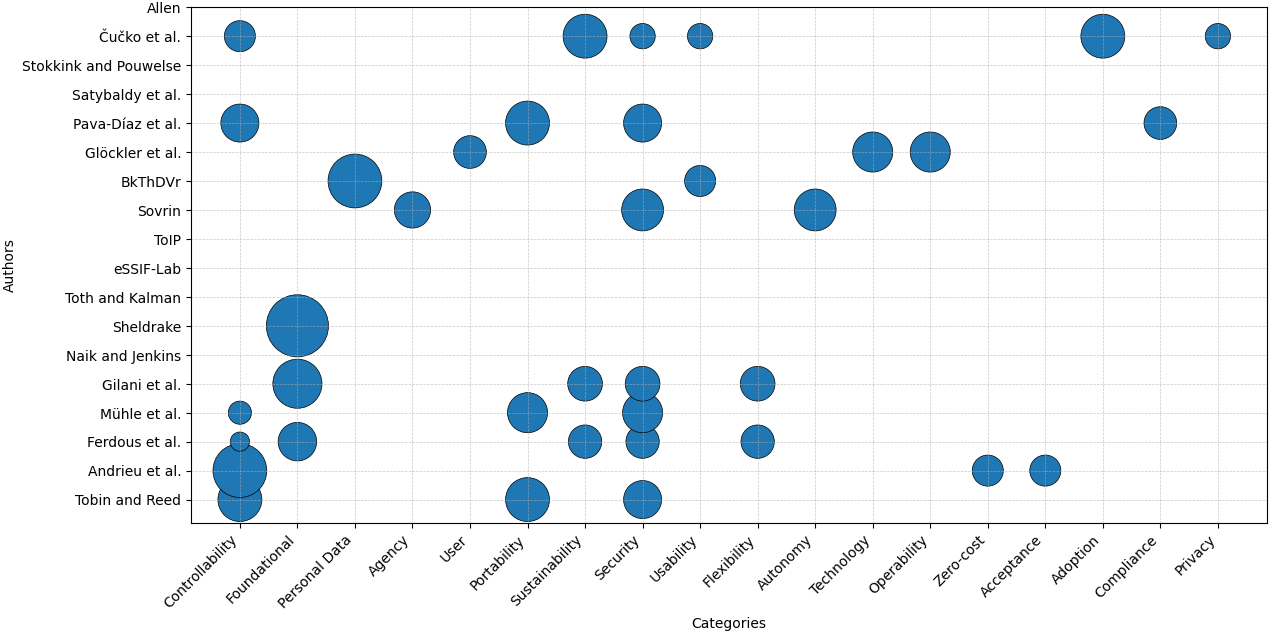
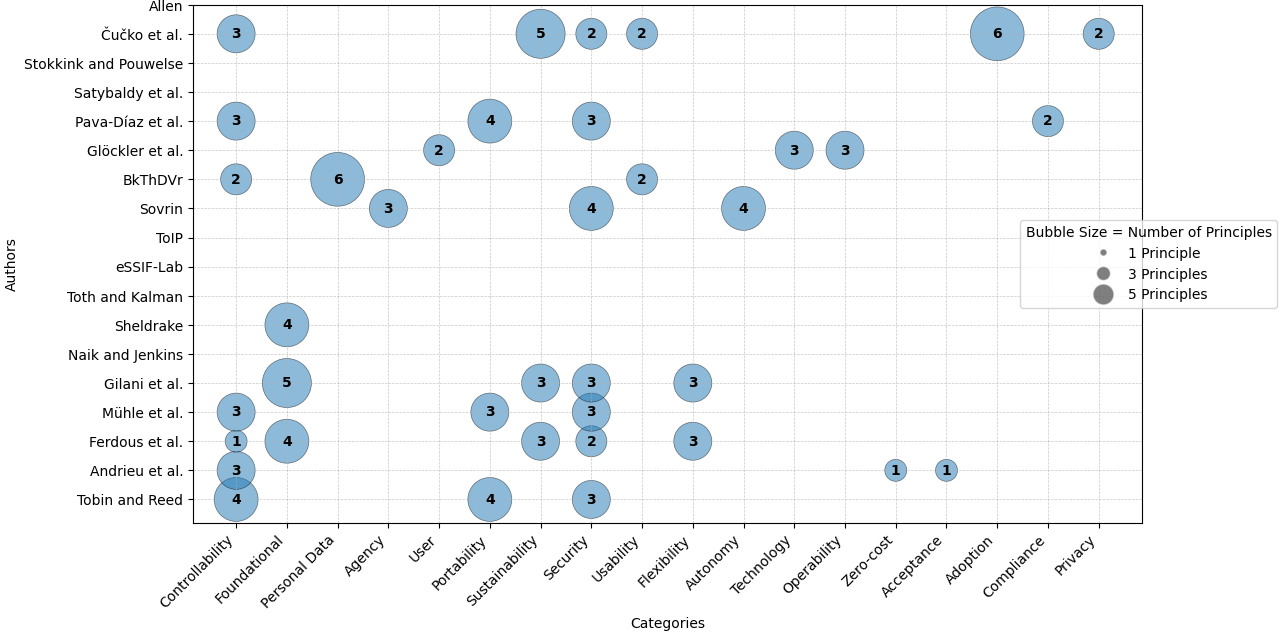
.

diff --git a/definition/program/clustering/graphs/Distribution_of_Authors_Contributions.py b/definition/program/clustering/graphs/Distribution_of_Authors_Contributions.py
@@ -6,46 +6,73 @@ import random
 authors = ["Tobin and Reed", "Andrieu et al.", "Ferdous et al.", "Mühle et al.", "Gilani et al.", "Naik and Jenkins", "Sheldrake", "Toth and Kalman", "eSSIF-Lab", "ToIP", "Sovrin", "BkThDVr", "Glöckler et al.", "Pava-Díaz et al.", "Satybaldy et al.", "Stokkink and Pouwelse", "Čučko et al.", "Allen"]
 
 categories = {
-    "Controllability":  [4/10, 3/5, 1/13, 1/9, 0, 0, 0, 0, 0, 0, 0, 0, 0, 3/10, 0, 0, 3/15, 0],
-    "Foundational":     [0, 0, 4/13, 0, 6/12, 0, 4/5, 0, 0, 0, 0, 0, 0, 0, 0, 0, 0, 0],
-    "Personal Data":    [0, 0, 0, 0, 0, 0, 0, 0, 0, 0, 0, 6/10, 0, 0, 0, 0, 0, 0],
-    "Agency":           [0, 0, 0, 0, 0, 0, 0, 0, 0, 0, 3/11, 0, 0, 0, 0, 0, 0, 0],
-    "User":             [0, 0, 0, 0, 0, 0, 0, 0, 0, 0, 0, 0, 2/9, 0, 0, 0, 0, 0],
-    "Portability":      [4/10, 0, 0, 3/9, 0, 0, 0, 0, 0, 0, 0, 0, 0, 4/10, 0, 0, 0, 0],
-    "Sustainability":   [0, 0, 3/13, 0, 3/12, 0, 0, 0, 0, 0, 0, 0, 0, 0, 0, 0, 6/15, 0],
-    "Security":         [3/10, 0, 3/13, 3/9, 3/12, 0, 0, 0, 0, 0, 4/11, 0, 0, 3/10, 0, 0, 2/15, 0],
-    "Usability":        [0, 0, 0, 0, 0, 0, 0, 0, 0, 0, 0, 2/10, 0, 0, 0, 0, 2/15, 0],
-    "Flexibility":      [0, 0, 3/13, 0, 3/12, 0, 0, 0, 0, 0, 0, 0, 0, 0, 0, 0, 0, 0],
-    "Autonomy":         [0, 0, 0, 0, 0, 0, 0, 0, 0, 0, 4/11, 0, 0, 0, 0, 0, 0, 0],
-    "Technology":       [0, 0, 0, 0, 0, 0, 0, 0, 0, 0, 0, 0, 3/9, 0, 0, 0, 0, 0],
-    "Operability":      [0, 0, 0, 0, 0, 0, 0, 0, 0, 0, 0, 0, 3/9, 0, 0, 0, 0, 0],
-    "Zero-cost":        [0, 1/5, 0, 0, 0, 0, 0, 0, 0, 0, 0, 0, 0, 0, 0, 0, 0, 0],
-    "Acceptance":       [0, 1/5, 0, 0, 0, 0, 0, 0, 0, 0, 0, 0, 0, 0, 0, 0, 0, 0],
-    "Adoption":         [0, 0, 0, 0, 0, 0, 0, 0, 0, 0, 0, 0, 0, 0, 0, 0, 6/15, 0],
-    "Compliance":       [0, 0, 0, 0, 0, 0, 0, 0, 0, 0, 0, 0, 0, 2/9, 0, 0, 0, 0],
-    "Privacy":          [0, 0, 0, 0, 0, 0, 0, 0, 0, 0, 0, 0, 0, 0, 0, 0, 2/15, 0],
+    "Controllability":  [4, 3, 1, 3, 0, 0, 0, 0, 0, 0, 0, 2, 0, 3, 0, 0, 3, 0],
+    "Foundational":     [0, 0, 4, 0, 5, 0, 4, 0, 0, 0, 0, 0, 0, 0, 0, 0, 0, 0],
+    "Personal Data":    [0, 0, 0, 0, 0, 0, 0, 0, 0, 0, 0, 6, 0, 0, 0, 0, 0, 0],
+    "Agency":           [0, 0, 0, 0, 0, 0, 0, 0, 0, 0, 3, 0, 0, 0, 0, 0, 0, 0],
+    "User":             [0, 0, 0, 0, 0, 0, 0, 0, 0, 0, 0, 0, 2, 0, 0, 0, 0, 0],
+    "Portability":      [4, 0, 0, 3, 0, 0, 0, 0, 0, 0, 0, 0, 0, 4, 0, 0, 0, 0],
+    "Sustainability":   [0, 0, 3, 0, 3, 0, 0, 0, 0, 0, 0, 0, 0, 0, 0, 0, 5, 0],
+    "Security":         [3, 0, 2, 3, 3, 0, 0, 0, 0, 0, 4, 0, 0, 3, 0, 0, 2, 0],
+    "Usability":        [0, 0, 0, 0, 0, 0, 0, 0, 0, 0, 0, 2, 0, 0, 0, 0, 2, 0],
+    "Flexibility":      [0, 0, 3, 0, 3, 0, 0, 0, 0, 0, 0, 0, 0, 0, 0, 0, 0, 0],
+    "Autonomy":         [0, 0, 0, 0, 0, 0, 0, 0, 0, 0, 4, 0, 0, 0, 0, 0, 0, 0],
+    "Technology":       [0, 0, 0, 0, 0, 0, 0, 0, 0, 0, 0, 0, 3, 0, 0, 0, 0, 0],
+    "Operability":      [0, 0, 0, 0, 0, 0, 0, 0, 0, 0, 0, 0, 3, 0, 0, 0, 0, 0],
+    "Zero-cost":        [0, 1, 0, 0, 0, 0, 0, 0, 0, 0, 0, 0, 0, 0, 0, 0, 0, 0],
+    "Acceptance":       [0, 1, 0, 0, 0, 0, 0, 0, 0, 0, 0, 0, 0, 0, 0, 0, 0, 0],
+    "Adoption":         [0, 0, 0, 0, 0, 0, 0, 0, 0, 0, 0, 0, 0, 0, 0, 0, 6, 0],
+    "Compliance":       [0, 0, 0, 0, 0, 0, 0, 0, 0, 0, 0, 0, 0, 2, 0, 0, 0, 0],
+    "Privacy":          [0, 0, 0, 0, 0, 0, 0, 0, 0, 0, 0, 0, 0, 0, 0, 0, 2, 0],
 }
 
-# Convert dictionary values to a NumPy array for better handling
-category_values = np.array(list(categories.values()))  # Shape: (num_categories, num_authors)
+# categories = {
+#     "Controllability":  [4/10, 3/5, 1/13, 1/9, 0, 0, 0, 0, 0, 0, 0, 0, 0, 3/10, 0, 0, 3/15, 0],
+#     "Foundational":     [0, 0, 4/13, 0, 6/12, 0, 4/5, 0, 0, 0, 0, 0, 0, 0, 0, 0, 0, 0],
+#     "Personal Data":    [0, 0, 0, 0, 0, 0, 0, 0, 0, 0, 0, 6/10, 0, 0, 0, 0, 0, 0],
+#     "Agency":           [0, 0, 0, 0, 0, 0, 0, 0, 0, 0, 3/11, 0, 0, 0, 0, 0, 0, 0],
+#     "User":             [0, 0, 0, 0, 0, 0, 0, 0, 0, 0, 0, 0, 2/9, 0, 0, 0, 0, 0],
+#     "Portability":      [4/10, 0, 0, 3/9, 0, 0, 0, 0, 0, 0, 0, 0, 0, 4/10, 0, 0, 0, 0],
+#     "Sustainability":   [0, 0, 3/13, 0, 3/12, 0, 0, 0, 0, 0, 0, 0, 0, 0, 0, 0, 6/15, 0],
+#     "Security":         [3/10, 0, 3/13, 3/9, 3/12, 0, 0, 0, 0, 0, 4/11, 0, 0, 3/10, 0, 0, 2/15, 0],
+#     "Usability":        [0, 0, 0, 0, 0, 0, 0, 0, 0, 0, 0, 2/10, 0, 0, 0, 0, 2/15, 0],
+#     "Flexibility":      [0, 0, 3/13, 0, 3/12, 0, 0, 0, 0, 0, 0, 0, 0, 0, 0, 0, 0, 0],
+#     "Autonomy":         [0, 0, 0, 0, 0, 0, 0, 0, 0, 0, 4/11, 0, 0, 0, 0, 0, 0, 0],
+#     "Technology":       [0, 0, 0, 0, 0, 0, 0, 0, 0, 0, 0, 0, 3/9, 0, 0, 0, 0, 0],
+#     "Operability":      [0, 0, 0, 0, 0, 0, 0, 0, 0, 0, 0, 0, 3/9, 0, 0, 0, 0, 0],
+#     "Zero-cost":        [0, 1/5, 0, 0, 0, 0, 0, 0, 0, 0, 0, 0, 0, 0, 0, 0, 0, 0],
+#     "Acceptance":       [0, 1/5, 0, 0, 0, 0, 0, 0, 0, 0, 0, 0, 0, 0, 0, 0, 0, 0],
+#     "Adoption":         [0, 0, 0, 0, 0, 0, 0, 0, 0, 0, 0, 0, 0, 0, 0, 0, 6/15, 0],
+#     "Compliance":       [0, 0, 0, 0, 0, 0, 0, 0, 0, 0, 0, 0, 0, 2/9, 0, 0, 0, 0],
+#     "Privacy":          [0, 0, 0, 0, 0, 0, 0, 0, 0, 0, 0, 0, 0, 0, 0, 0, 2/15, 0],
+# }
 
-# Generate x, y, and size values based on real data
+
+category_values = np.array(list(categories.values()))
+
 x, y, sizes = [], [], []
-scaling_factor = 2500  # Adjust this to control bubble sizes
+scaling_factor = 250  # Adjust this to control bubble sizes
 
 for j, category in enumerate(categories.keys()):
     for i, author in enumerate(authors):
-        value = category_values[j, i]  # Get value from categories
-        if value > 0:  # Only plot bubbles for nonzero values
+        value = category_values[j, i]
+        if value > 0:
             x.append(j)
             y.append(i)
-            sizes.append(value * scaling_factor)  # Scale size for better visualization
+            sizes.append(value * scaling_factor)
 
 # Create bubble chart
 plt.figure(figsize=(12, 8))
-plt.scatter(x, y, s=sizes, alpha=1, edgecolors='black', linewidths=0.5)
+scatter = plt.scatter(x, y, s=sizes, alpha=0.5, edgecolors='black', linewidths=0.5)
 
-plt.grid(True, which='both', linestyle='--', linewidth=0.5, alpha=0.7)
+# Add text inside bubbles
+for j, category in enumerate(categories.keys()):
+    for i, author in enumerate(authors):
+        value = category_values[j, i]
+        if value > 0:
+            plt.text(j, i, str(value), fontsize=10, ha='center', va='center', color='black', fontweight='bold')
+
+plt.grid(True, linestyle='--', linewidth=0.5, alpha=0.7)
 
 # Labels and title
 plt.xticks(ticks=range(len(categories)), labels=categories.keys(), rotation=45, ha='right')
@@ -53,6 +80,17 @@ plt.yticks(ticks=range(len(authors)), labels=authors)
 plt.xlabel("Categories")
 plt.ylabel("Authors")
 plt.title("")
+
+# Add legend at mid-height
+from matplotlib.lines import Line2D
+
+legend_labels = [
+    Line2D([0], [0], marker='o', color='w', label='1 Principle', markersize=5, markerfacecolor='black', alpha=0.5),
+    Line2D([0], [0], marker='o', color='w', label='3 Principles', markersize=10, markerfacecolor='black', alpha=0.5),
+    Line2D([0], [0], marker='o', color='w', label='5 Principles', markersize=15, markerfacecolor='black', alpha=0.5)
+]
+
+plt.legend(handles=legend_labels, title="Bubble Size = Number of Principles", loc="center right", bbox_to_anchor=(1.15, 0.5))
 
 # Show chart
 plt.show()

diff --git a/definition/program/clustering/graphs/CategoryFrequency.py b/definition/program/clustering/graphs/CategoryFrequency.py
@@ -11,14 +11,14 @@ data = {
         "Access and availability":      [0, 3, 0, 1, 0, 3, 0, 2, 1, 0, 0, 0, 1, 0, 0, 0, 0, 0],
         "Security and protection":      [0, 0, 1, 0, 0, 0, 0, 8, 0, 0, 0, 0, 0, 0, 0, 0, 1, 0],
         "Persistence":                  [1, 1, 1, 0, 0, 0, 0, 5, 0, 0, 0, 0, 0, 0, 0, 1, 0, 0],
-        "Privacy and minimal disclosure":[2, 1, 1, 0, 1, 0, 0, 4, 0, 1, 0, 0, 0, 0, 0, 0, 0, 0],
+        "Privacy and minimal disclosure":[2, 1, 1, 0, 1, 0, 0, 4, 0, 2, 0, 0, 0, 0, 0, 0, 0, 1],
         "Portability":                  [0, 0, 1, 0, 0, 2, 1, 0, 0, 2, 1, 1, 0, 0, 0, 1, 0, 0],
         "Transparency":                 [0, 0, 0, 0, 0, 3, 3, 1, 1, 0, 0, 0, 0, 0, 0, 1, 0, 0],
         "Interoperability":             [0, 0, 0, 0, 0, 3, 1, 0, 1, 2, 1, 1, 0, 0, 0, 1, 1, 0],
         "Cost":                         [0, 0, 0, 0, 0, 0, 3, 0, 0, 0, 0, 0, 1, 1, 0, 1, 0, 0],
         "Standard":                     [0, 0, 0, 0, 0, 0, 3, 0, 0, 0, 0, 1, 0, 0, 1, 1, 0, 0],
         "Decentralization and Autonomy":[1, 1, 0, 0, 0, 0, 0, 0, 0, 0, 1, 0, 1, 0, 0, 0, 0, 0],
-        "Verifiability and Authenticity":[0, 0, 0, 0, 0, 0, 0, 0, 2, 0, 0, 0, 0, 0, 0, 0, 0, 0],
+        "Verifiability and Authenticity":[0, 0, 0, 0, 0, 0, 0, 0, 0, 0, 0, 0, 0, 0, 0, 0, 0, 0],
         "Usability and consistency":    [1, 0, 0, 1, 0, 0, 0, 0, 1, 0, 0, 0, 0, 0, 0, 0, 0, 0],
 }
 
@@ -37,7 +37,7 @@ df = pd.DataFrame(data, index=categories)
 df.sum(axis=1).plot(kind="bar", figsize=(12, 6), color="skyblue", edgecolor="black")
 plt.title("")
 plt.xlabel("Categories")
-plt.ylabel("Occurrence")
+plt.ylabel("Occurrence of principles")
 plt.xticks(rotation=45, ha="right")
 plt.grid(axis="y", linestyle="--", alpha=0.7)
 plt.show()

diff --git a/definition/program/clustering/graphs/Heatmap.py b/definition/program/clustering/graphs/Heatmap.py
@@ -11,14 +11,14 @@ data = {
         "Access and availability":      [0, 3, 0, 1, 0, 3, 0, 2, 1, 0, 0, 0, 1, 0, 0, 0, 0, 0],
         "Security and protection":      [0, 0, 1, 0, 0, 0, 0, 8, 0, 0, 0, 0, 0, 0, 0, 0, 1, 0],
         "Persistence":                  [1, 1, 1, 0, 0, 0, 0, 5, 0, 0, 0, 0, 0, 0, 0, 1, 0, 0],
-        "Privacy and minimal disclosure":[2, 1, 1, 0, 1, 0, 0, 4, 0, 1, 0, 0, 0, 0, 0, 0, 0, 0],
+        "Privacy and minimal disclosure":[2, 1, 1, 0, 1, 0, 0, 4, 0, 2, 0, 0, 0, 0, 0, 0, 0, 1],
         "Portability":                  [0, 0, 1, 0, 0, 2, 1, 0, 0, 2, 1, 1, 0, 0, 0, 1, 0, 0],
         "Transparency":                 [0, 0, 0, 0, 0, 3, 3, 1, 1, 0, 0, 0, 0, 0, 0, 1, 0, 0],
         "Interoperability":             [0, 0, 0, 0, 0, 3, 1, 0, 1, 2, 1, 1, 0, 0, 0, 1, 1, 0],
         "Cost":                         [0, 0, 0, 0, 0, 0, 3, 0, 0, 0, 0, 0, 1, 1, 0, 1, 0, 0],
         "Standard":                     [0, 0, 0, 0, 0, 0, 3, 0, 0, 0, 0, 1, 0, 0, 1, 1, 0, 0],
         "Decentralization and Autonomy":[1, 1, 0, 0, 0, 0, 0, 0, 0, 0, 1, 0, 1, 0, 0, 0, 0, 0],
-        "Verifiability and Authenticity":[0, 0, 0, 0, 0, 0, 0, 0, 2, 0, 0, 0, 0, 0, 0, 0, 0, 0],
+        "Verifiability and Authenticity":[0, 0, 0, 0, 0, 0, 0, 0, 0, 0, 0, 0, 0, 0, 0, 0, 0, 0],
         "Usability and consistency":    [1, 0, 0, 1, 0, 0, 0, 0, 1, 0, 0, 0, 0, 0, 0, 0, 0, 0],
 }
 

diff --git a/definition/Definition.md b/definition/Definition.md
@@ -90,7 +90,7 @@ The merging process has collapsed some of the principles naming together and shr
 The chart in Figure 3 illustrates the frequency of citation for the 34 principles across the studies that we have considered, distinguishing between *Allen Principles* (in blue) and *Extending Principles* (in yellow). The x-axis lists the principles, while the y-axis represents their frequency of occurrence. The *Allen Principles*, such as "Existence and Representation," "Ownership and Control," "Transparency," and "Interoperability, show a significantly higher occurrence, indicating a strong foundation in existing literature, maybe based on the fact that those principles have been around for longer. In contrast, the *Extending Principles*, including "Cost," "Scalable," "Trust," and "Verifiability and Authenticity," show greater variability; for example, 19 out of the 24 extending principles, were cited by fewer than five authors. The analysis suggests the centrality of the Allen Principles which remain dominant, while emerging principles contribute to the evolving discourse in the field.
 
 ![Principles selection](/definition/images/principles_selection/Principles_selection.png)
-*Figure 3: The number of citations per principle across the 18 authors.*
+*Figure 3: The distribution of principles.*
 
 The average value of citation occurrences is 27%, where we placed a red threshold line as a reference for comparison (we used 25% for simplicity). We used this threashold line to extract a subset of principles for SSI; namely, we selected principles cited by at least the 25% of the authors. This heuristic of 25% is a typified strategy that aids in making decisions efficiently by relying on practical rules.[^heuristic] Thus, the final list includes principles that surpass the red threshold in Figure 3. The final list is reported in [Table 3](https://cristianlepore.github.io/Self-Sovereign-Identity/definition/tables/principles_semplification/Principles_semplification1.html), and accounts for 15 principles - 10 from Allen plus five extending principles. Note that the merging process has collapsed some of the original names within the same cell.
 
@@ -107,7 +107,7 @@ A key highlight of this chart is the clustering of dots around principles like t
 
 Some authors address a broad range of principles, demonstrating a comprehensive approach, while others focus more narrowly, emphasizing specific areas of interest. This chart not only reveals the priorities of individual authors but also illustrates broader trends in the SSI field, offering insights into what is most valued as this framework continues to evolve.6
 ![Category frequency](/definition/images/recording_of_principles/Bubble.png)
-*Figure 5: A comparative overview of the distribution of principles and authors.*
+*Figure 5: The distribution of principles and authors.*
 
 ### 1.3.4 Clustering
 
@@ -120,25 +120,37 @@ However, the Table 4 provides a scattered analysis of categorizations. Hence, be
 
 1. What are the most frequently discussed categories in the context of Self-Sovereign Identity?
 2. How do principles and articles align across different categories?
-3. 
-4. 
+3. How are principles distributed across categories by authors?
 
-Figure 6 addresses the first question, while questions ... are addressed by Figure ...
+Figure 6 answers the first question, while Figure 7 and 8 aim to address question 2 and 3 respectively.
 
-The next chart highlights the distribution of principles across categories, emphasizing key areas of focus and identifying gaps. For example, "Security" and "Controllability" dominate, reflecting their critical role in building trust and establishing the core framework for SSI systems. Moderately emphasized categories, such as "Portability," "Sustainability," and "Usability," suggest attention to practicality and user experience. However, categories like "Agency," "Compliance," and "Zero Cost" show minimal occurrences, indicating potential areas for further exploration. Modest representation in "Adoption" and "Technology" signals their growing importance as SSI solutions transition toward broader implementation. Privacy, while essential, appears less explicitly emphasized, possibly being subsumed under broader principles like security. Overall, the chart reveals the dominance of controllability, foundational and security concerns while highlighting underexplored aspects that may shape future SSI research and development.
+The next chart highlights the distribution of principles across categories, emphasizing key areas of focus and identifying gaps. For example, "Security" and "Controllability" dominate, reflecting their critical role in building trust and establishing the core framework for SSI systems. Moderately emphasized categories, such as "Portability," "Sustainability," and "Usability," suggest attention to practicality and user experience. However, categories like "Agency," "Compliance," and "Zero Cost" show minimal occurrences, indicating potential areas for further exploration. Modest representation in "Adoption" and "Technology" signals their growing importance as SSI solutions transition toward broader implementation. Privacy, while essential, appears less explicitly emphasized, possibly being subsumed under broader principles like security. Overall, the chart reveals the dominance of "Controllability" and "Security" concerns while highlighting underexplored aspects that may shape future SSI research and development.
 
 ![Category frequency](/definition/images/clusters/CategoryFrequency.png)
-*Figure 6: Distribution of principles across categories.*
+*Figure 6: Occurrence of principles per category.*
 
-The chart compares the number of unique occurrences across various categories in SSI principles and articles, highlighting areas of emphasis and alignment. Categories like "Controllability" and "Foundational" are equally represented, with both principles and articles scoring high (7 occurrences each). "Security" and "Sustainability" receive more focus in articles (8 and 7 occurrences, respectively) than in principles (5 each), indicating stronger attention in literature discussions. Moderately represented categories, such as "Personal Data," "Portability," and "Autonomy," show minor differences between principles and articles. In contrast, underrepresented categories like "Zero-cost," "Acceptance," and "Compliance" exhibit minimal occurrences in both domains, revealing potential opportunities for further exploration. Overall, the analysis identifies alignment in addressing foundational SSI aspects while showcasing discrepancies and less-explored areas for future development.
+This next chart in Figure 7, provides insight into which categories are most frequently discussed in academic or professional literature (articles) and whether they align with the principles being cited or emphasized within each category. Compared to the previous chart, Figure 7 considers only distinct principles. This allows for the identification of potential gaps, overlaps, or priorities in research and application.
+
+The y-axis lists the categories, such as "Controllability," "Foundational," "Security," "Usability," "Portability," and others, representing key aspects of SSI. The x-axis quantifies the number of unique occurrences for each category, with blue bars indicating occurrences in formal principles of SSI and red bars representing occurrences in academic or technical articles. This layout allows for a clear comparison of how frequently each category is addressed in these two distinct sources. For example, "Personal data" is cited only by one article (red bar), but contains 6 different principles (blue bar).
+
+Categories such as "Controllability" and "Foundational" express similar emphasis in both articles and principles. "Security" stands out as the most referenced category in articles, with 8 occurrences, and accounts for 5 different principles. Similarly, "Sustainability" receives more attention in articles (7 occurrences) than in principles (5 occurrences).
+
+Moderately represented categories, such as "Usability" and "Agency", exhibit comparable but slightly varying occurrences between articles and principles. In contrast, less-referenced categories, including "Zero-cost," "Acceptance," and "Compliance," have minimal mentions across both articles and principles.  
+
+This comparison underscores the alignment and divergence in focus between the articles and principles, highlighting key areas like "Security" and "Sustainability" where articles place greater emphasis and identifying underexplored categories that could benefit from further research and integration.
 
 ![Category frequency](/definition/images/clusters/Distribution_of_Principles_and_Articles_Occurrences_by_Category.png)
-*Figure 7: Comparative analysis of SSI principles and article occurrences across categories.*
+*Figure 7: The number of distinct principles and articles per category.*
+
+The Figure 8 answers the question: *How are principles distributed across categories by authors?*
+
+The bubble plot illustrates the relationship between authors and categories based on the number of principles they address. The Y-axis lists the authors, such as Allen, Čučko et al., while the X-axis displays various categories, including "Controllability," "Foundational," "Personal Data," "Sustainability," and others. Each bubble represents the number of principles an author has covered in a specific category, with the size of the bubble corresponding to the number of principles. Larger bubbles indicate more principles, while smaller bubbles represent fewer. The numerical values inside the bubbles specify the exact count. Key insights include that categories like "Controllability," "Foundational," and "Sustainability" receive significant attention from multiple authors, with BkThDvr notably addressing 6 principles under "Foundational." In contrast, categories like "Acceptance," "Adoption," "Zero-cost," "Compliance," and "Privacy" are less frequently covered, with minimal or no bubbles. This chart effectively highlights authors' focus areas and reveals trends in principle coverage across different categories. Notably, some authors did not mention any category, for example the Trust Over IP, Naik and Jenkins, Stokkink and Pouwelse, Allen, etc.
+
+![Category frequency](/definition/images/clusters/Distribution_authors_contribution.png)
+*Figure 8: Distribution of principles across categories by authors.*
 
 We applied clustering techniques to group principles our clustering process. The resulting table is presented in the first sheet of the [Excel file](https://cristianlepore.github.io/Self-Sovereign-Identity/definition/tables/principles_classification/Summary.xlsx). In this table, rows represent the 15 properties, columns correspond to the categorization of principles from [Table 4](https://cristianlepore.github.io/Self-Sovereign-Identity/definition/tables/principles_classification/Principles_classification1), and cell numbers indicate occurrences by author. We employed three clustering techniques: Greedy, K-Means, and Graph Theory.
 
-![Category frequency](/definition/images/clusters/Distribution_authors_contribution.png)
-*Figure 6: *
 RIPORTARE I PROGRAMMI
 ![Clustering](/definition/images/clusters/Heatmap.png)
 *Figure 5: *
